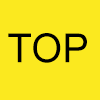
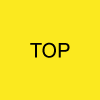
back-to-top button fixes
Added a link to jquery in order to get the back-to-top button to work.
Fixed the font size in the top.png image.

Changed region(s): [[0.06, 0.33, 0.87, 0.63]]

diff --git a/h2o-docs/src/front/index.html b/h2o-docs/src/front/index.html
@@ -24,6 +24,7 @@
     <meta http-equiv="X-UA-Compatible" content="IE=edge">
     <meta name="viewport" content="width=device-width, initial-scale=1">
     <link rel="shortcut icon" href="assets/images/favicon.ico">
+     <script src="https://ajax.googleapis.com/ajax/libs/jquery/1.12.4/jquery.min.js"></script>
 </head>
 
 <body>
@@ -71,6 +72,7 @@
         </div>
     </nav>
 </header>
+<div id="toTop"></div>
 <div class="section">
   <div class="container">
     <div class="row">
@@ -521,7 +523,6 @@
                 </nav>
             </div>
         </div>
-        <div id="toTop"></div>
     </div>
 </footer>
   <script src="demo-files/liga.js"></script>
